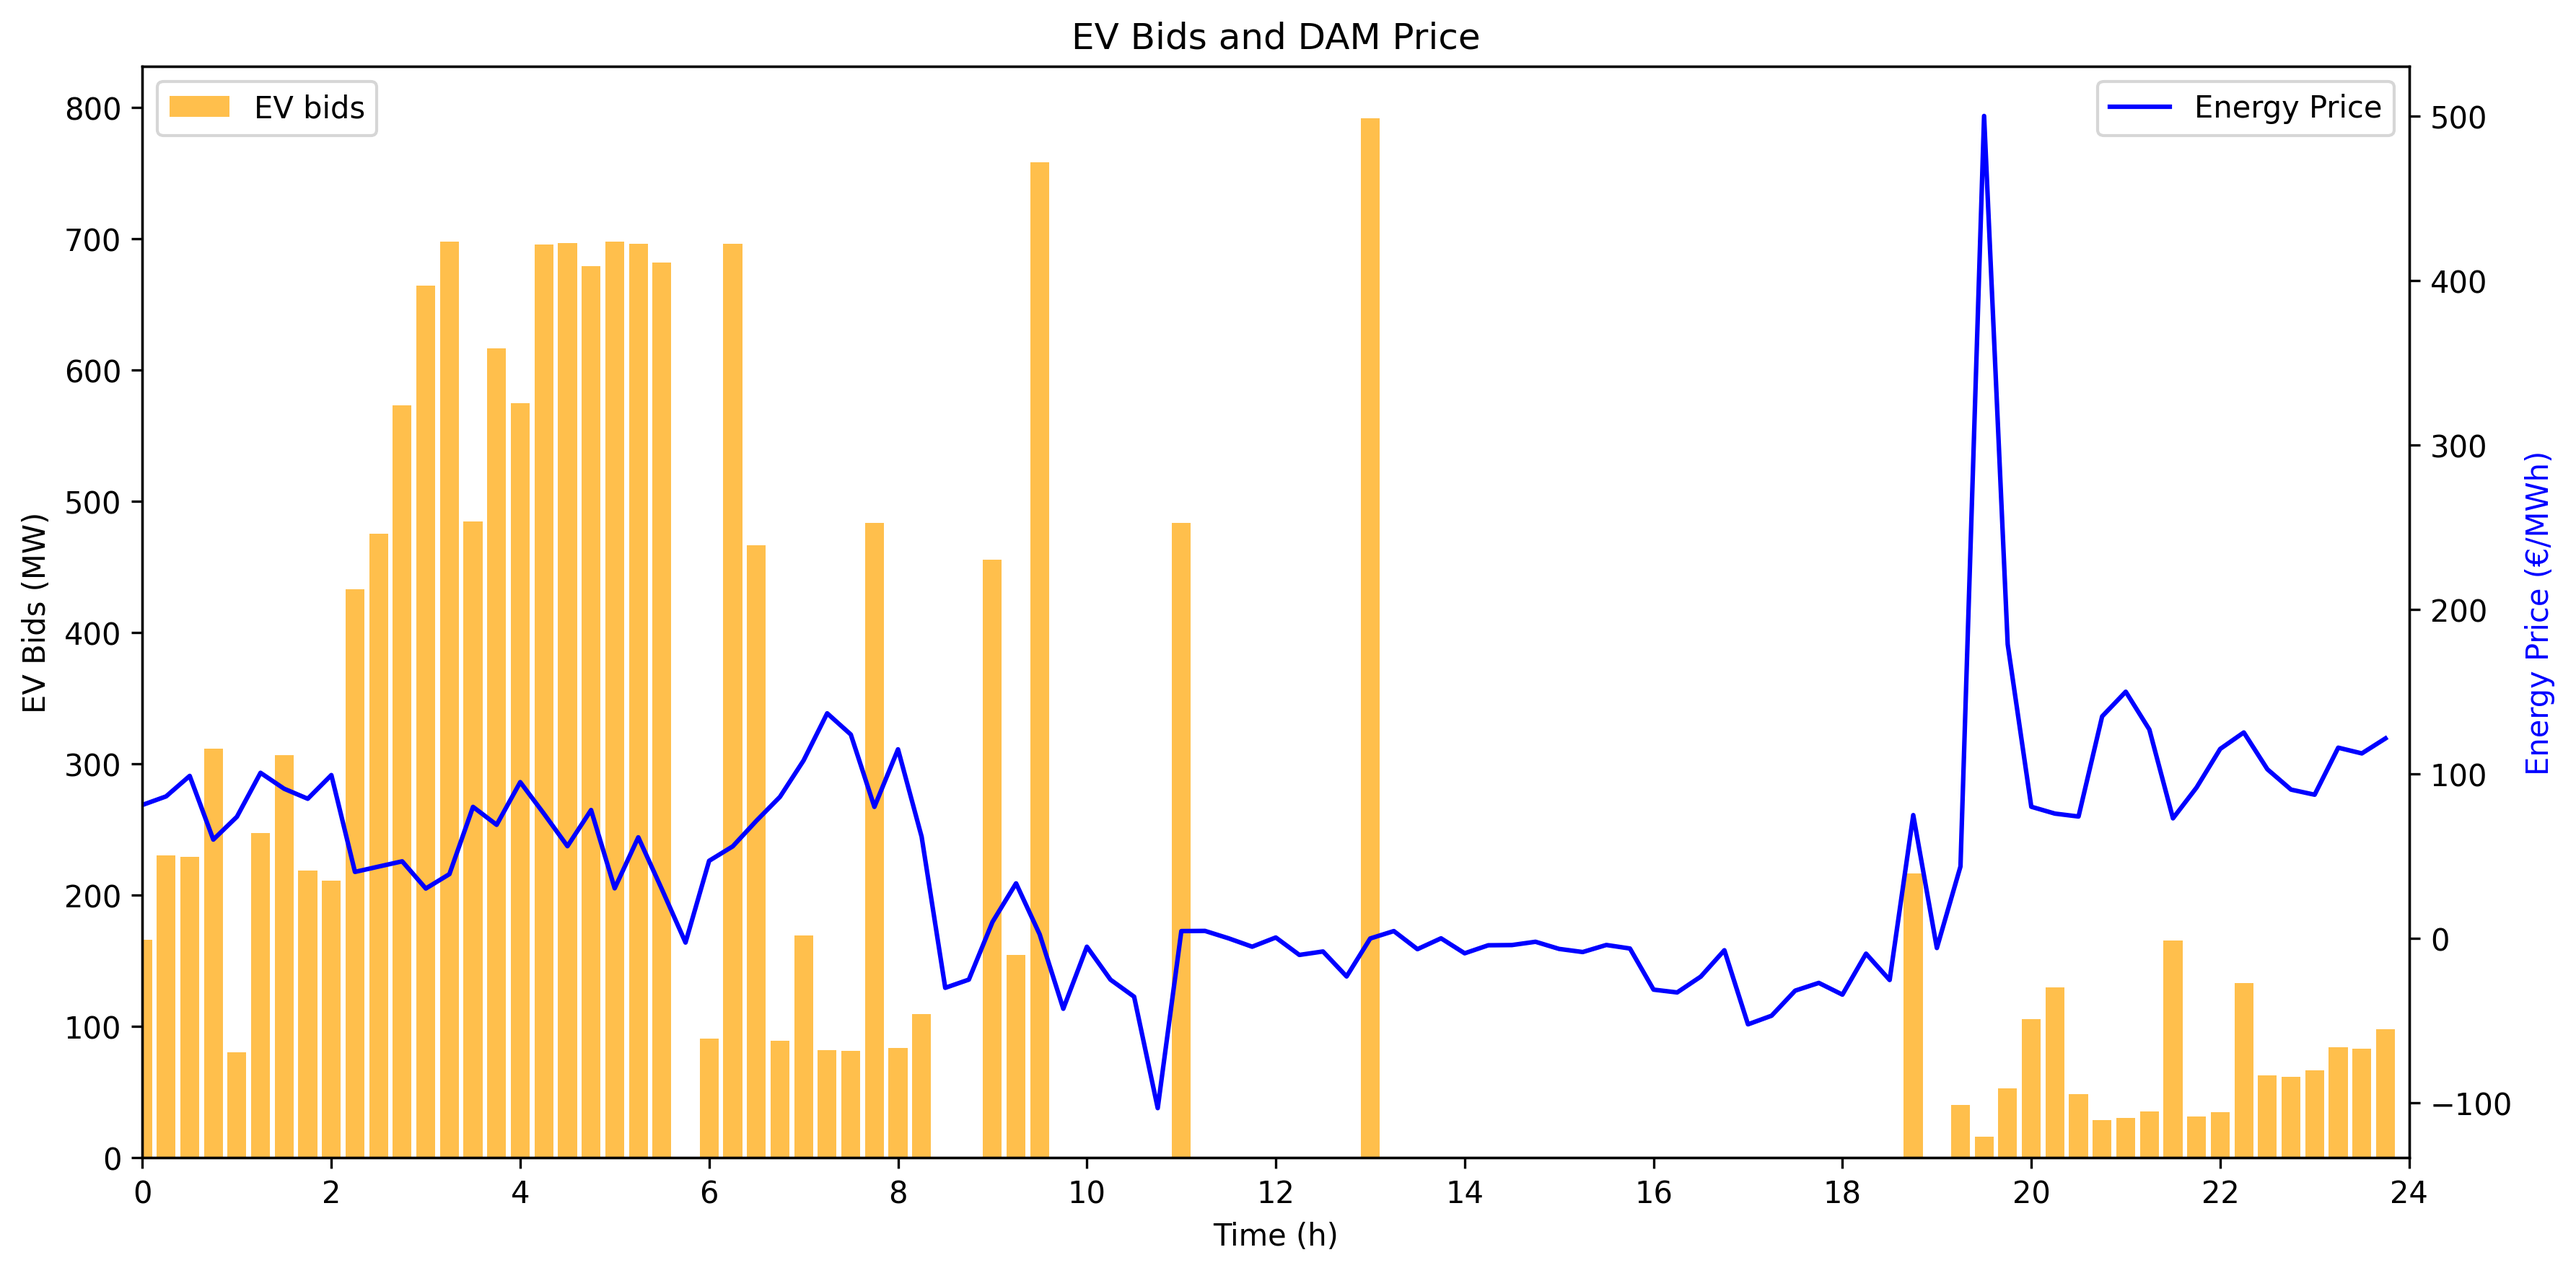
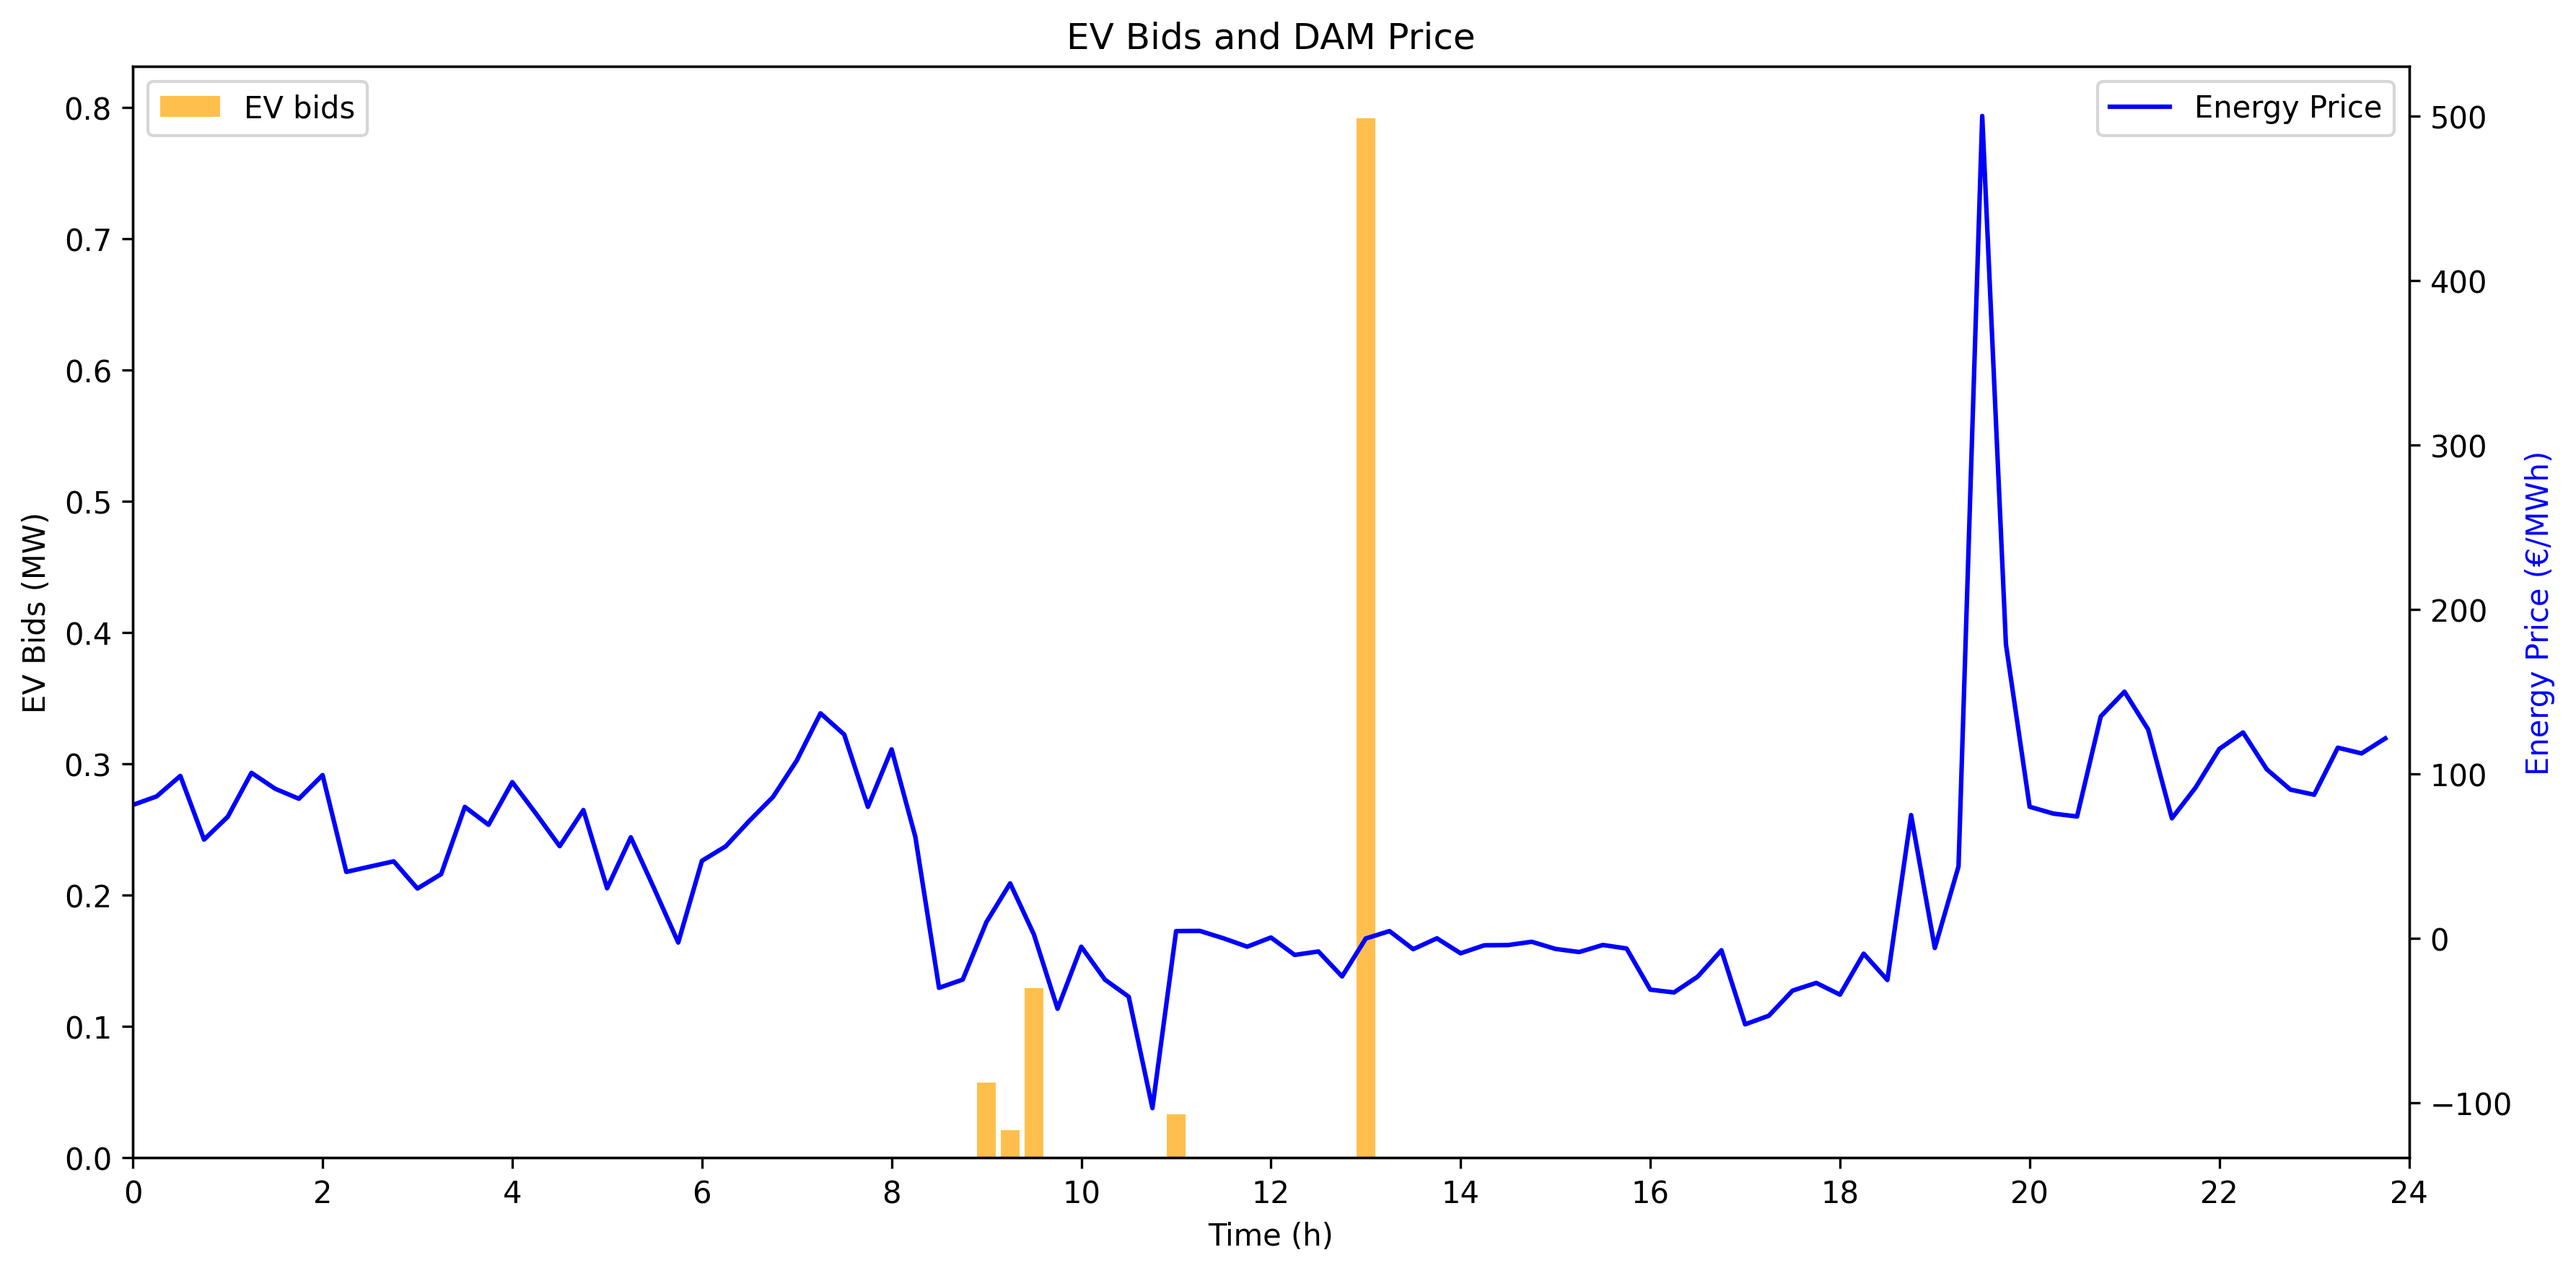
调整了case1 es的一些单位问题 调整到kw kwh

diff --git a/src/constraints.py b/src/constraints.py
@@ -25,8 +25,8 @@ class V2GConstraintsCase1:
             Ta_i = row["arrival_time"]
             Sa_i = row["soc_arrival"]
             Sd_i = row["soc_departure"]
-            Eev_i = row["battery_capacity"]
-            Pmax = row["max_charge_power"]
+            Eev_i = row["battery_capacity"]  # 现在是MWh
+            Pmax = row["max_charge_power"]  # 现在是MW
             eta_ev = row["efficiency"]
             
             # 计算 Tk_i,w
@@ -73,8 +73,8 @@ class V2GConstraintsCase1:
                 Sd = row["soc_departure"]
                 Smax = row["soc_max"]
                 # Smin = row["soc_min"]
-                Eev = row["battery_capacity"]
-                Pmax = row["max_charge_power"]
+                Eev = row["battery_capacity"]  # 现在是MWh
+                Pmax = row["max_charge_power"]  # 现在是MW
                 eta = row["efficiency"]
                 
                 # 处理夜间充电跨天的情况
@@ -145,7 +145,7 @@ class V2GConstraintsCase1:
                 row = cc_evs.iloc[n]
                 Ta = int(row["arrival_time"])
                 Td = int(row["departure_time"])
-                Eev = row["battery_capacity"]
+                Eev = row["battery_capacity"]  # 现在是MWh
                 
                 # 处理夜间充电跨天的情况
                 is_overnight = row["charging_type"] == "night" if "charging_type" in row else False
@@ -346,8 +346,8 @@ class V2GConstraintsCase3:
             Ta_i = row["arrival_time"]
             Sa_i = row["soc_arrival"]
             Sd_i = row["soc_departure"]
-            Eev_i = row["battery_capacity"]
-            Pmax = row["max_charge_power"]
+            Eev_i = row["battery_capacity"]  # 现在是MWh
+            Pmax = row["max_charge_power"]  # 现在是MW
             eta_ev = row["efficiency"]
             
             # 计算 Tk_i,w
@@ -393,8 +393,8 @@ class V2GConstraintsCase3:
                 Sd = row["soc_departure"]
                 Smax = row["soc_max"]
                 Smin = row["soc_min"]
-                Eev = row["battery_capacity"]
-                Pmax = row["max_charge_power"]
+                Eev = row["battery_capacity"]  # 现在是MWh
+                Pmax = row["max_charge_power"]  # 现在是MW
                 eta = row["efficiency"]
                 if Ta <= t <= Td:
                     self.model.addConstr(P_ev0_cc[scenario_idx, t, n] >= 0)
@@ -425,7 +425,7 @@ class V2GConstraintsCase3:
                 row = cc_evs.iloc[n]
                 Ta = int(row["arrival_time"])
                 Td = int(row["departure_time"])
-                Eev = row["battery_capacity"]
+                Eev = row["battery_capacity"]  # 现在是MWh
                 for t in range(Ta, Td-1):
                     self.model.addConstr(
                         soc[scenario_idx, t, n] <= Smax - K_dn * R_ev_dn_i[scenario_idx, t+1, n] / Eev

diff --git a/src/optimization_model.py b/src/optimization_model.py
@@ -16,7 +16,7 @@ class V2GOptimizationModelCase1:
         K_up: float,
         P_es_max: float = 1.6,  # ES最大充放电功率1.6 MW
         E_es_max: float = 3.2,  # ES最大能量容量3.2 MWh
-        E_es_init: float = 1.0,  # ES初始能量1.0 MWh (原1.6)
+        E_es_init: float = 1.0,  # ES初始能量1.0 MWh
         dod_max: float = 0.9,    # 最大允许DOD(原0.3)
         gamma: float = 0.3,      # 最终能量与初始能量偏差容忍率(原0.5)
         T: int = 96,
@@ -95,8 +95,8 @@ class V2GOptimizationModelCase1:
                 for n in range(N_uc):
                     keys_uc.append((w, t, n))
         # 用keys方式创建变量
-        P_ev_cc = self.model.addVars(keys_cc, lb=0, ub=6.6, name="P_ev_cc") # Charging power of cc individual EV i in hour t in scenario w (MW)
-        P_ev_uc = self.model.addVars(keys_uc, lb=0, ub=6.6, name="P_ev_uc") # Charging power of uc individual EV i in hour t in scenario w (MW)
+        P_ev_cc = self.model.addVars(keys_cc, lb=0, ub=0.0066, name="P_ev_cc") # Charging power of cc individual EV i in hour t in scenario w (MW)
+        P_ev_uc = self.model.addVars(keys_uc, lb=0, ub=0.0066, name="P_ev_uc") # Charging power of uc individual EV i in hour t in scenario w (MW)
         P_ev0_cc = self.model.addVars(keys_cc, name="P_ev0_cc") # PSP of cc individual EV i in hour t in scenario w (MW)
         P_ev0_uc = self.model.addVars(keys_uc, name="P_ev0_uc") #PSP of uc individual EV i in hour t in scenario w (MW)
         R_ev_up_i = self.model.addVars(keys_cc, name="R_ev_up_i") # Upward regulation capacity provided by controllable individual EV i in hour t in scenario w (MW)
@@ -456,8 +456,8 @@ class V2GOptimizationModelCase3:
                 for n in range(N_uc):
                     keys_uc.append((w, t, n))
         # 用keys方式创建变量
-        P_ev_cc = self.model.addVars(keys_cc, name="P_ev_cc") # Charging power of cc individual EV i in hour t in scenario w (MW)
-        P_ev_uc = self.model.addVars(keys_uc, name="P_ev_uc") # Charging power of uc individual EV i in hour t in scenario w (MW)
+        P_ev_cc = self.model.addVars(keys_cc, lb=0, ub=0.0066, name="P_ev_cc") # Charging power of cc individual EV i in hour t in scenario w (MW)
+        P_ev_uc = self.model.addVars(keys_uc, lb=0, ub=0.0066, name="P_ev_uc") # Charging power of uc individual EV i in hour t in scenario w (MW)
         P_ev0_cc = self.model.addVars(keys_cc, name="P_ev0_cc") # PSP of cc individual EV i in hour t in scenario w (MW)
         P_ev0_uc = self.model.addVars(keys_uc, name="P_ev0_uc") #P SP of ucc individual EV i in hour t in scenario w (MW)
         R_ev_up_i = self.model.addVars(keys_cc, name="R_ev_up_i") # Upward regulation capacity provided by controllable individual EV i in hour t in scenario w (MW)

diff --git a/src/data_loader.py b/src/data_loader.py
@@ -81,10 +81,10 @@ class DataLoader:
                 - soc_departure: 离开时目标SOC
                 - soc_max: 最大SOC
                 - soc_min: 最小SOC
-                - battery_capacity: 电池容量（kWh）
-                - max_charge_power: 最大充电功率（kW）
+                - battery_capacity: 电池容量（MWh）
+                - max_charge_power: 最大充电功率（MW）
                 - efficiency: 充电效率
-                - charging_price: 充电价格（$/MWh）
+                - charging_price: 充电价格（€/MWh）
         """
         if seed is not None:
             np.random.seed(seed)
@@ -123,8 +123,8 @@ class DataLoader:
         df['soc_departure'] = 0.0
         df['soc_max'] = 0.95
         df['soc_min'] = 0.1
-        df['battery_capacity'] = 28.0
-        df['max_charge_power'] = 6.6
+        df['battery_capacity'] = 0.028  # 将28.0 kWh转换为0.028 MWh
+        df['max_charge_power'] = 0.0066  # 将6.6 kW转换为0.0066 MW
         df['efficiency'] = 0.95
         
         # 为白天充电的EV设置参数 (连续小时时间)

diff --git a/src/scenario_generator.py b/src/scenario_generator.py
@@ -55,8 +55,8 @@ class ScenarioGenerator:
             scenario['soc_departure'] = 0.0
             scenario['soc_max'] = ev_profiles['soc_max'].values
             scenario['soc_min'] = ev_profiles['soc_min'].values
-            scenario['battery_capacity'] = ev_profiles['battery_capacity'].values
-            scenario['max_charge_power'] = ev_profiles['max_charge_power'].values
+            scenario['battery_capacity'] = ev_profiles['battery_capacity'].values  # 已转换为MWh
+            scenario['max_charge_power'] = ev_profiles['max_charge_power'].values  # 已转换为MW
             scenario['efficiency'] = ev_profiles['efficiency'].values
             scenario['charging_price'] = ev_profiles['charging_price'].values
             
